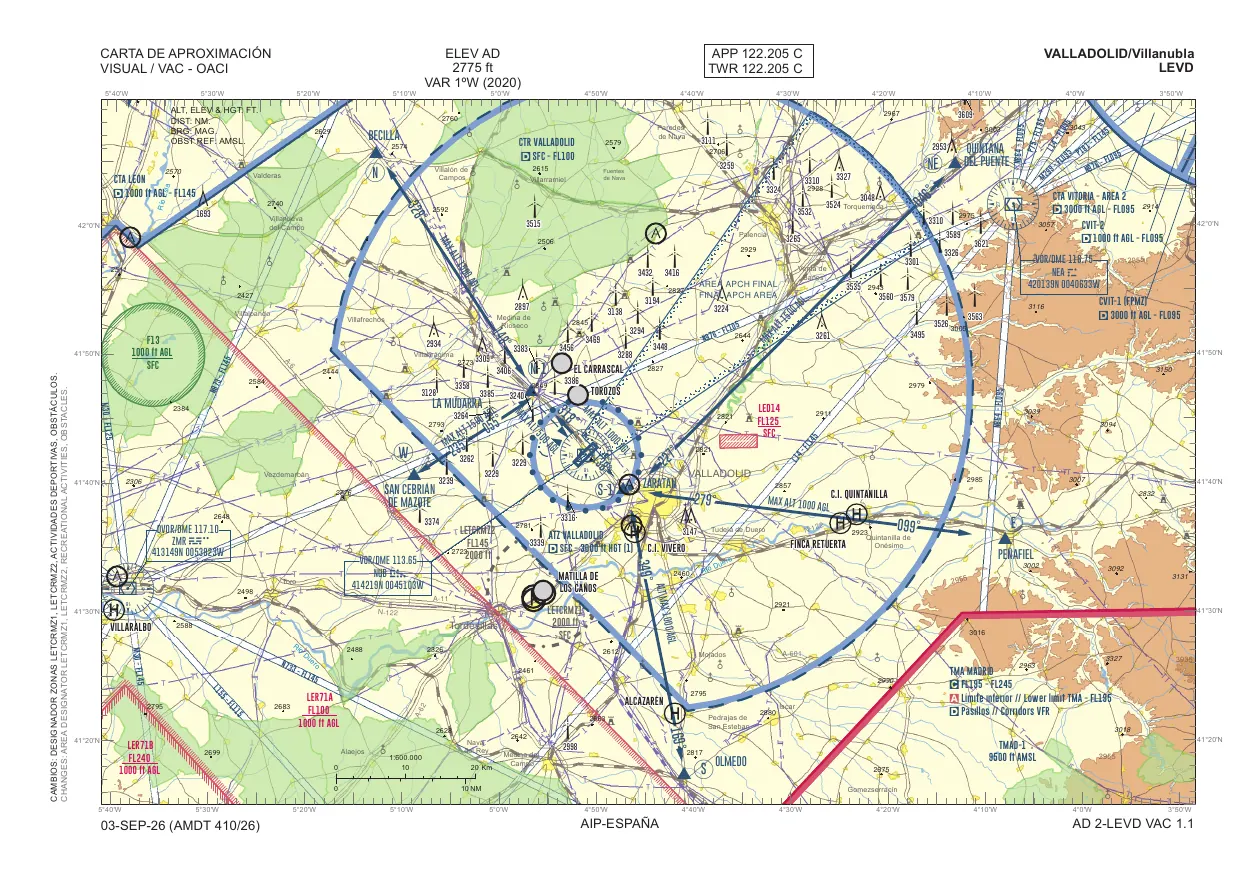
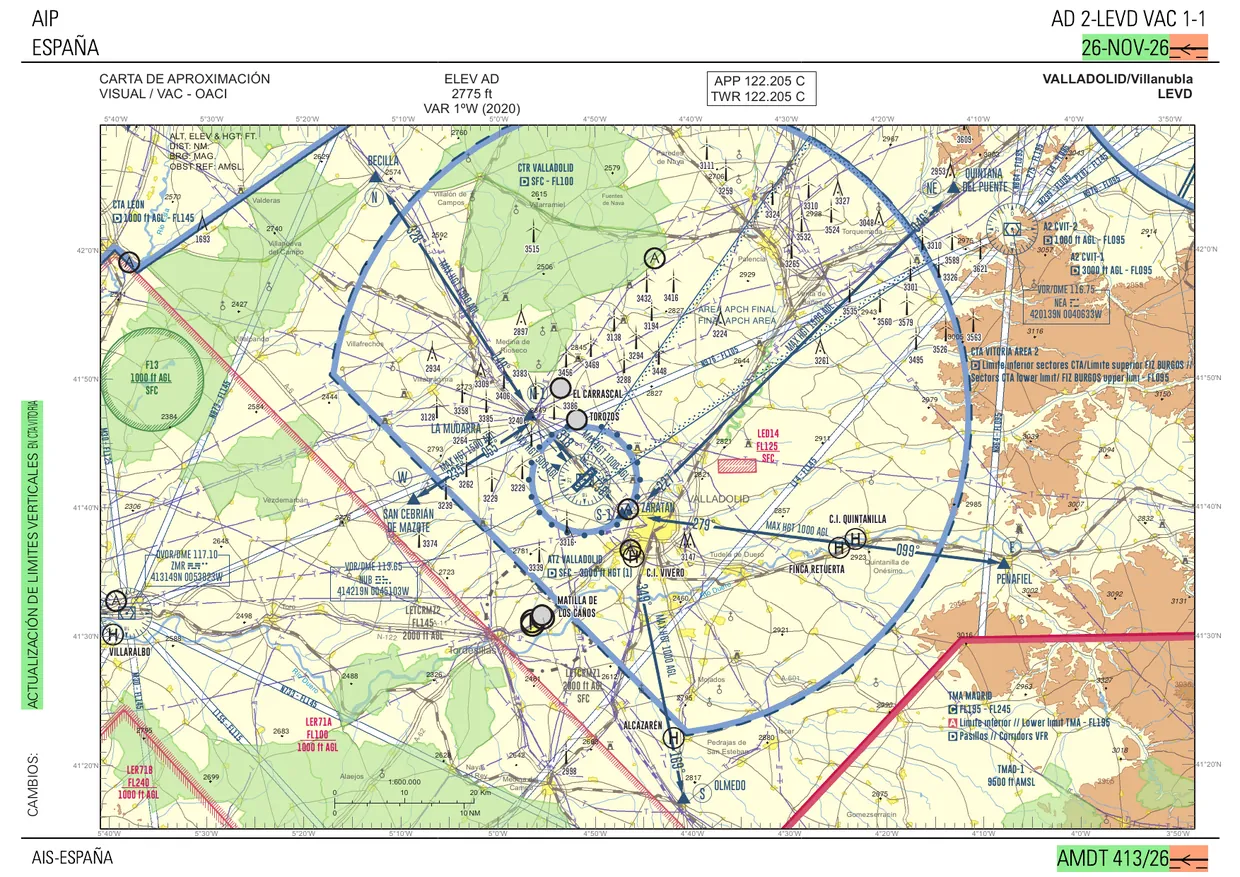
AIRAC 2612: cartas LEAM ADC, LELL PDC y LEVD VAC; AD 2 de LEGR, LELL, LEPP y LEXJ revisados; lista de enmiendas corregida
- Cartas nuevas (WEF 26-NOV-26): LEAM ADC 1 (reimpresión), LELL PDC 1-1/1-2/1-3 (nuevo edificio y paradas de helicópteros), LEVD VAC 1-1/1-2.
- AD 2 (frecuencias, elevación y pistas sin cambios): LEGR, LELL, LEPP y LEXJ marcados como revisados.
- Panel de Stats: instantánea de enmiendas contrastada con la lista oficial (LEBA solo IFR; LEBZ y LESO no cambian; LEGR sin VAC).
- Cartas regeneradas con ?v=2612 para evitar la caché.

Claude-Session: https://claude.ai/code/session_019RNePyopSai5Pfc6wFC9Tn

diff --git a/ops.js b/ops.js
@@ -23,7 +23,7 @@ const ends=()=>AD.rw.reduce((l,r)=>l.concat([Object.assign({len:r.len,surf:r.sur
 /* Otros aeródromos del Reglamento de vuelos (OurAirports, no oficial): coordenadas, elevación (ft), pistas asfaltadas (longitud m, umbrales). Rumbo = número de pista × 10. */
 const AEROS=[{"icao":"LEMT","name":"Casarrubios","ph":1,"tm":"00:15","lat":40.235,"lon":-4.02639,"elev":2050,"rw":[{"len":950,"surf":"ASP","a":{"id":"08","hdg":80,"ll":[40.23426,-4.031893]},"b":{"id":"26","hdg":260,"ll":[40.235742,-4.020887]},"est":1}]},{"icao":"LEOC","name":"Ocaña","ph":1,"tm":"00:30","lat":39.9375,"lon":-3.50333,"elev":2405,"rw":[{"len":1260,"surf":"ASP","a":{"id":"11","hdg":110,"ll":[39.938,-3.50791]},"b":{"id":"29","hdg":290,"ll":[39.934601,-3.49384]},"est":0}]},{"icao":"LEVD","name":"Valladolid","ph":1,"tm":"01:30","lat":41.7061,"lon":-4.85194,"elev":2775,"rw":[{"len":3005,"surf":"ASP","a":{"id":"05","hdg":50,"ll":[41.697029,-4.864785]},"b":{"id":"23","hdg":230,"ll":[41.716019,-4.839038]},"est":0}]},{"icao":"LEBG","name":"Burgos","ph":1,"tm":"01:30","lat":42.3576,"lon":-3.62076,"elev":2962,"rw":[{"len":2099,"surf":"ASP","a":{"id":"04","hdg":40,"ll":[42.350498,-3.62235]},"b":{"id":"22","hdg":220,"ll":[42.364246,-3.60499]},"est":0}]},{"icao":"LESA","name":"Salamanca","ph":1,"tm":"01:30","lat":40.9521,"lon":-5.50199,"elev":2595,"rw":[{"len":2513,"surf":"ASP","a":{"id":"03","hdg":30,"ll":[40.942024,-5.509036]},"b":{"id":"21","hdg":210,"ll":[40.962025,-5.495064]},"est":0}]},{"icao":"LEAB","name":"Albacete","ph":1,"tm":"01:45","lat":38.9485,"lon":-1.86352,"elev":2300,"rw":[{"len":2700,"surf":"ASP","a":{"id":"09","hdg":90,"ll":[38.948002,-1.87906]},"b":{"id":"27","hdg":270,"ll":[38.9491,-1.84794]},"est":0}]},{"icao":"LEBA","name":"Córdoba","ph":1,"tm":"02:00","lat":37.842,"lon":-4.84888,"elev":308,"rw":[{"len":2241,"surf":"ASP","a":{"id":"03","hdg":30,"ll":[37.834435,-4.854156]},"b":{"id":"21","hdg":210,"ll":[37.852104,-4.841833]},"est":0}]},{"icao":"LEBZ","name":"Badajoz","ph":1,"tm":"02:00","lat":38.8913,"lon":-6.82133,"elev":608,"rw":[{"len":2852,"surf":"ASP","a":{"id":"13","hdg":130,"ll":[38.8988,-6.83462]},"b":{"id":"31","hdg":310,"ll":[38.883801,-6.80789]},"est":0}]},{"icao":"LETL","name":"Teruel","ph":2,"tm":"01:45","lat":40.41027,"lon":-1.21737,"elev":3367,"rw":[{"len":2825,"surf":"ASPH","a":{"id":"18","hdg":180,"ll":[40.424732,-1.218303]},"b":{"id":"36","hdg":360,"ll":[40.399319,-1.216897]},"est":0}]},{"icao":"LELN","name":"León","ph":2,"tm":"02:00","lat":42.59071,"lon":-5.65341,"elev":3006,"rw":[{"len":3000,"surf":"ASP","a":{"id":"05","hdg":50,"ll":[42.582001,-5.66528]},"b":{"id":"23","hdg":230,"ll":[42.600911,-5.639317]},"est":0}]},{"icao":"LELO","name":"Logroño (LERJ)","ph":2,"tm":"02:00","lat":42.46095,"lon":-2.32224,"elev":1156,"rw":[{"len":2200,"surf":"CON","a":{"id":"11","hdg":110,"ll":[42.463726,-2.332505]},"b":{"id":"29","hdg":290,"ll":[42.45702,-2.307331]},"est":0}]},{"icao":"LESO","name":"San Sebastián","ph":2,"tm":"02:15","lat":43.3565,"lon":-1.79061,"elev":15,"rw":[{"len":1590,"surf":"ASP","a":{"id":"04","hdg":40,"ll":[43.350399,-1.7974]},"b":{"id":"22","hdg":220,"ll":[43.362701,-1.78382]},"est":0}]},{"icao":"LEGR","name":"Granada","ph":2,"tm":"02:15","lat":37.1887,"lon":-3.77736,"elev":1860,"rw":[{"len":2900,"surf":"ASP","a":{"id":"09","hdg":90,"ll":[37.188599,-3.79369]},"b":{"id":"27","hdg":270,"ll":[37.1889,-3.76103]},"est":0}]},{"icao":"LEZL","name":"Sevilla","ph":2,"tm":"02:30","lat":37.418,"lon":-5.89311,"elev":111,"rw":[{"len":3364,"surf":"ASP","a":{"id":"09","hdg":90,"ll":[37.4179,-5.91208]},"b":{"id":"27","hdg":270,"ll":[37.417999,-5.8741]},"est":0}]},{"icao":"LELC","name":"Murcia-San Javier","ph":2,"tm":"02:45","lat":37.775,"lon":-0.81239,"elev":29,"rw":[{"len":1577,"surf":"ASPH","a":{"id":"04L","hdg":40,"ll":[37.780499,-0.816839]},"b":{"id":"22R","hdg":220,"ll":[37.785999,-0.809692]},"est":0},{"len":2320,"surf":"ASPH","a":{"id":"04R","hdg":40,"ll":[37.7677,-0.821556]},"b":{"id":"22L","hdg":220,"ll":[37.7822,-0.802833]},"est":0}]},{"icao":"LEPP","name":"Pamplona","ph":3,"tm":"02:15","lat":42.77,"lon":-1.64633,"elev":1506,"rw":[{"len":2405,"surf":"ASP","a":{"id":"15","hdg":150,"ll":[42.779499,-1.65325]},"b":{"id":"33","hdg":330,"ll":[42.762001,-1.6405]},"est":0}]},{"icao":"LEXJ","name":"Santander","ph":3,"tm":"02:15","lat":43.4271,"lon":-3.82001,"elev":16,"rw":[{"len":2320,"surf":"ASP","a":{"id":"11","hdg":110,"ll":[43.430801,-3.83392]},"b":{"id":"29","hdg":290,"ll":[43.423599,-3.80702]},"est":0}]},{"icao":"LEAS","name":"Asturias","ph":3,"tm":"02:30","lat":43.5636,"lon":-6.03462,"elev":417,"rw":[{"len":2200,"surf":"ASP","a":{"id":"11","hdg":110,"ll":[43.566601,-6.04759]},"b":{"id":"29","hdg":290,"ll":[43.560501,-6.02165]},"est":0}]},{"icao":"LECH","name":"Castellón","ph":3,"tm":"02:30","lat":40.21389,"lon":0.07333,"elev":1182,"rw":[{"len":2700,"surf":"ASPH","a":{"id":"06","hdg":60,"ll":[40.2075,0.060245]},"b":{"id":"24","hdg":240,"ll":[40.220699,0.086913]},"est":0}]},{"icao":"LEAM","name":"Almería","ph":3,"tm":"02:45","lat":36.8439,"lon":-2.3701,"elev":69,"rw":[{"len":3200,"surf":"ASP","a":{"id":"07","hdg":70,"ll":[36.839699,-2.38726]},"b":{"id":"25","hdg":250,"ll":[36.848099,-2.35294]},"est":0}]},{"icao":"LEJR","name":"Jerez","ph":3,"tm":"02:45","lat":36.7446,"lon":-6.06011,"elev":93,"rw":[{"len":2300,"surf":"ASP","a":{"id":"02","hdg":20,"ll":[36.735001,-6.06481]},"b":{"id":"20","hdg":200,"ll":[36.754299,-6.05541]},"est":0}]},{"icao":"LELL","name":"Sabadell","ph":3,"tm":"03:15","lat":41.5209,"lon":2.10508,"elev":485,"rw":[{"len":1049,"surf":"ASPH","a":{"id":"13","hdg":130,"ll":[41.523346,2.100731]},"b":{"id":"31","hdg":310,"ll":[41.517643,2.110748]},"est":0}]}];
 /* Cartas de aeródromo (AIP ADC 1.1, ENAIRE) colocadas sobre el mapa con los umbrales de la AIP y la escala impresa: url = carta, ovl = capa de rodaje, b = esquinas SO/NE, thr = umbrales, fq = frecuencias, sup = suplementos vigentes. */
-const CHARTS={"LEAB":{"url":"ops-adc-LEAB.webp","ovl":"ops-ovl-LEAB.webp","b":[[38.9308217,-1.8872232],[38.9652102,-1.8394056]],"wef":"27-NOV-25","fq":[["TWR","122.105","Torre"],["GND","121.805","Rodaje"]],"thr":[{"ri":0,"a":["09",38.947967,-1.879119],"b":["27",38.948928,-1.847986]}],"sup":[["SUP 176/25","02/10/25","02/10/26","Riesgo de FOD en la APN E-1 por obras cercanas. Solo se admiten aeronaves remolcadas por la TWY RE-1.","19/11/26"]]},"LEAM":{"url":"ops-adc-LEAM.webp","ovl":"ops-ovl-LEAM.webp","b":[[36.8247991,-2.393994],[36.863068,-2.3439305]],"wef":"03-SEP-26","fq":[["TWR","118.350","Torre"],["GMC","121.705","Rodaje"]],"thr":[{"ri":0,"a":["07",36.840119,-2.385647],"b":["25",36.848147,-2.352936]}]},"LEAS":{"url":"ops-adc-LEAS.webp","ovl":"ops-ovl-LEAS.webp","b":[[43.549046,-6.0562749],[43.5758797,-6.0154594]],"wef":"01-OCT-26","fq":[["TWR","118.150","Torre"],["GMC","121.705","Rodaje"]],"thr":[{"ri":0,"a":["11",43.566639,-6.047592],"b":["29",43.560497,-6.02165]}],"sup":[["SUP 209/26","29/10/26","29/10/27","Luces de obstáculo WDI CAB 11 y WDI INTERMEDIA inutilizables.","19/11/26"]]},"LEBA":{"url":"ops-adc-LEBA.webp","ovl":"ops-ovl-LEBA.webp","b":[[37.8317839,-4.8632642],[37.8547002,-4.8333972]],"wef":"16-APR-26","fq":[["AFIS","118.305","Información"]],"thr":[{"ri":0,"a":["03",37.834436,-4.854156],"b":["21",37.850597,-4.842883]}],"sup":[["SUP 126/26","06/08/26","06/08/27","Luces de identificación de umbral de las RWY 03 y 21 inutilizables.","19/11/26"]]},"LEBG":{"url":"ops-adc-LEBG.webp","ovl":"ops-ovl-LEBG.webp","b":[[42.3483298,-3.6346449],[42.3666972,-3.6020878]],"wef":"27-NOV-25","fq":[["AFIS","125.430","Información"]],"thr":[{"ri":0,"a":["04",42.350486,-3.622344],"b":["22",42.364283,-3.604925]}],"sup":[["SUP 103/26","11/06/26","11/06/27","Señal de barra de parada izquierda TWY B y letrero de pista indicativo de entrada a TWY B inutilizables.","19/11/26"]],"vf":"19/11/26"},"LEBZ":{"url":"ops-adc-LEBZ.webp","ovl":"ops-ovl-LEBZ.webp","b":[[38.8792224,-6.8416114],[38.9032923,-6.8001851]],"wef":"11-JUN-26","fq":[["TWR","122.105","Torre"],["GMC","130.155","Rodaje"],["APP","120.555","Aproximación"]],"thr":[{"ri":0,"a":["13",38.898753,-6.834617],"b":["31",38.883789,-6.807894]}],"ns":"19/11/26"},"LECH":{"url":"ops-adc-LECH.webp","ovl":"ops-ovl-LECH.webp","b":[[40.1988652,0.0524052],[40.2283881,0.0930035]],"wef":"06-AUG-26","fq":[["TWR","120.680","Torre"],["GMC","121.830","Rodaje"],["APP","120.100","Aproximación"]],"thr":[{"ri":0,"a":["06",40.207539,0.060236],"b":["24",40.220697,0.086906]}],"ns":"19/11/26"},"LEGR":{"url":"ops-adc-LEGR.webp","ovl":"ops-ovl-LEGR.webp","b":[[37.168324,-3.8016827],[37.2065881,-3.7531957]],"wef":"01-OCT-26","fq":[["TWR / APP","118.855","Torre y aproximación"],["GMC","121.930","Rodaje"],["ATIS","120.630","Información"]],"thr":[{"ri":0,"a":["09",37.188614,-3.793681],"b":["27",37.188858,-3.761022]}],"ns":"19/11/26"},"LEJR":{"url":"ops-adc-LEJR.webp","ovl":"ops-ovl-LEJR.webp","b":[[36.7308255,-6.0765695],[36.7608551,-6.0397388]],"wef":"19-MAR-26","fq":[["TWR","118.555","Torre"],["GMC","133.280","Rodaje"],["APP","128.500","Aproximación"],["ATIS","125.655","Información"]],"thr":[{"ri":0,"a":["02",36.734975,-6.064814],"b":["20",36.754269,-6.055406]}],"ns":"19/11/26"},"LELC":{"url":"ops-adc-LELC.webp","ovl":"ops-ovl-LELC.webp","b":[[37.7629874,-0.83094],[37.790054,-0.7940294]],"wef":"22-JAN-26","fq":[["TWR","124.425","Torre"],["GMC","121.600","Rodaje"],["APP","130.300","Aproximación"],["ATIS","128.605","Información"]],"thr":[{"ri":1,"a":["04R",37.767603,-0.821653],"b":["22L",37.782183,-0.802786]},{"ri":0,"a":["04L",37.776617,-0.820406],"b":["22R",37.786528,-0.807583]}],"vf":"19/11/26","ns":"19/11/26"},"LELL":{"url":"ops-adc-LELL.webp","ovl":"ops-ovl-LELL.webp","b":[[41.5171955,2.0986373],[41.5251759,2.1120677]],"wef":"22-JAN-26","fq":[["TWR","120.805","Torre"],["GMC","121.605","Rodaje"],["VDF","120.800","Radiogoniómetro"]],"thr":[{"ri":0,"a":["13",41.523344,2.100731],"b":["31",41.518458,2.109328]}],"sup":[["SUP 213/25","25/12/25","25/12/26","Luces de identificación de umbral de las RWY 13 y 31 inutilizables.","19/11/26"]],"vf":"19/11/26"},"LELN":{"url":"ops-adc-LELN.webp","ovl":"ops-ovl-LELN.webp","b":[[42.579322,-5.6708921],[42.6062346,-5.6299509]],"wef":"09-JUL-26","fq":[["TWR","122.105","Torre y rodaje"],["APP","121.280","Aproximación"]],"thr":[{"ri":0,"a":["05",42.58195,-5.665275],"b":["23",42.600931,-5.639281]}],"vf":"19/11/26","ns":"19/11/26"},"LELO":{"url":"ops-adc-LELO.webp","ovl":"ops-ovl-LELO.webp","b":[[42.4467799,-2.3354434],[42.4718524,-2.2965332]],"wef":"11-JUN-26","fq":[["TWR / APP","118.580","Torre y aproximación"],["GMC","121.705","Rodaje"]],"thr":[{"ri":0,"a":["11",42.463731,-2.332497],"b":["29",42.457025,-2.307322]}],"sup":[["SUP 096/26","14/05/26","14/05/27","Precaución al rodar por la TWY A.","19/11/26"],["SUP 27/26","16/04/26","16/04/27","PRKG 1H y 4H cerrados.","19/11/26"]],"vf":"19/11/26"},"LEPP":{"url":"ops-adc-LEPP.webp","ovl":"ops-ovl-LEPP.webp","b":[[42.7564493,-1.6708535],[42.7880711,-1.6216623]],"wef":"22-JAN-26","fq":[["TWR / APP","118.200","Torre y aproximación"],["GMC","121.705","Rodaje"]],"thr":[{"ri":0,"a":["15",42.779544,-1.653253],"b":["33",42.764419,-1.642231]}],"sup":[["SUP 184/26","01/10/26","15/05/27","Obras de ampliación de franja.","19/11/26"]],"vf":"19/11/26"},"LESA":{"url":"ops-adc-LESA.webp","ovl":"ops-ovl-LESA.webp","b":[[40.9372976,-5.5204154],[40.9650699,-5.481748]],"wef":"04-SEP-25","fq":[["TWR","118.105","Torre"],["GMC","121.855","Rodaje"],["APP","124.405","Aproximación"]],"thr":[{"ri":0,"a":["03",40.942025,-5.509036],"b":["21",40.962025,-5.495064]}],"sup":[["SUP 163/25","04/09/25","04/09/26","RWY 07/25 cerrada.","19/11/26","","25/11/26"],["SUP 217/26","26/11/26","20/03/27","Hasta el 20 de marzo de 2027 (estimado), la RWY 07/25 de terreno duro permanece cerrada.","19/11/26","26/11/26",""]],"vf":"19/11/26"},"LESO":{"url":"ops-adc-LESO.webp","ovl":"ops-ovl-LESO.webp","b":[[43.3497862,-1.8007191],[43.3636751,-1.7796799]],"wef":"19-MAR-26","fq":[["TWR","119.855","Torre"],["GMC","121.705","Rodaje"]],"thr":[{"ri":0,"a":["04",43.351503,-1.796136],"b":["22",43.361519,-1.785106]}],"vf":"19/11/26","ns":"19/11/26"},"LETL":{"url":"ops-adc-LETL.webp","ovl":"ops-ovl-LETL.webp","b":[[40.3966402,-1.2384847],[40.4293216,-1.1957957]],"wef":"09-JUL-26","fq":[["A/A","122.680","Sin ATS · autoinformación"]],"thr":[{"ri":0,"a":["18",40.424733,-1.218303],"b":["36",40.401889,-1.217039]}],"sup":[["SUP 54/26","16/04/26","16/04/27","Presencia de grúas en el aeropuerto.","19/11/26"],["SUP 55/26","16/04/26","16/04/27","Puestos de estacionamiento cerrados.","19/11/26"]],"vf":"19/11/26"},"LEVD":{"url":"ops-adc-LEVD.webp","ovl":"ops-ovl-LEVD.webp","b":[[41.6936663,-4.87431],[41.7198056,-4.8296932]],"wef":"02-OCT-25","fq":[["TWR / APP","122.205","Torre y aproximación"]],"thr":[{"ri":0,"a":["05",41.697019,-4.864756],"b":["23",41.715989,-4.839006]}],"vf":"19/11/26","ns":"19/11/26"},"LEXJ":{"url":"ops-adc-LEXJ.webp","ovl":"ops-ovl-LEXJ.webp","b":[[43.4205508,-3.8367876],[43.4326734,-3.8034041]],"wef":"22-JAN-26","fq":[["TWR","118.105","Torre"],["APP","118.375","Aproximación"],["GMC","121.705","Rodaje"],["ATIS","127.530","Información"]],"thr":[{"ri":0,"a":["11",43.430789,-3.833919],"b":["29",43.423597,-3.807014]}],"vf":"19/11/26","ns":"19/11/26"},"LEZL":{"url":"ops-adc-LEZL.webp","ovl":"ops-ovl-LEZL.webp","b":[[37.4085142,-5.923041],[37.4269782,-5.8631846]],"wef":"14-MAY-26","fq":[["TWR","118.105","Torre"],["APP","128.500","Aproximación"],["GMC","121.705","Rodaje"],["ATIS","118.180","Información"]],"thr":[{"ri":0,"a":["09",37.417881,-5.912075],"b":["27",37.418008,-5.8741]}],"vf":"19/11/26","ns":"19/11/26"}};
+const CHARTS={"LEAB":{"url":"ops-adc-LEAB.webp","ovl":"ops-ovl-LEAB.webp","b":[[38.9308217,-1.8872232],[38.9652102,-1.8394056]],"wef":"27-NOV-25","fq":[["TWR","122.105","Torre"],["GND","121.805","Rodaje"]],"thr":[{"ri":0,"a":["09",38.947967,-1.879119],"b":["27",38.948928,-1.847986]}],"sup":[["SUP 176/25","02/10/25","02/10/26","Riesgo de FOD en la APN E-1 por obras cercanas. Solo se admiten aeronaves remolcadas por la TWY RE-1.","19/11/26"]]},"LEAM":{"url":"ops-adc-LEAM.webp","ovl":"ops-ovl-LEAM.webp","b":[[36.8247991,-2.393994],[36.863068,-2.3439305]],"wef":"26-NOV-26","vf":"23/11/26","fq":[["TWR","118.350","Torre"],["GMC","121.705","Rodaje"]],"thr":[{"ri":0,"a":["07",36.840119,-2.385647],"b":["25",36.848147,-2.352936]}]},"LEAS":{"url":"ops-adc-LEAS.webp","ovl":"ops-ovl-LEAS.webp","b":[[43.549046,-6.0562749],[43.5758797,-6.0154594]],"wef":"01-OCT-26","fq":[["TWR","118.150","Torre"],["GMC","121.705","Rodaje"]],"thr":[{"ri":0,"a":["11",43.566639,-6.047592],"b":["29",43.560497,-6.02165]}],"sup":[["SUP 209/26","29/10/26","29/10/27","Luces de obstáculo WDI CAB 11 y WDI INTERMEDIA inutilizables.","19/11/26"]]},"LEBA":{"url":"ops-adc-LEBA.webp","ovl":"ops-ovl-LEBA.webp","b":[[37.8317839,-4.8632642],[37.8547002,-4.8333972]],"wef":"16-APR-26","fq":[["AFIS","118.305","Información"]],"thr":[{"ri":0,"a":["03",37.834436,-4.854156],"b":["21",37.850597,-4.842883]}],"sup":[["SUP 126/26","06/08/26","06/08/27","Luces de identificación de umbral de las RWY 03 y 21 inutilizables.","19/11/26"]]},"LEBG":{"url":"ops-adc-LEBG.webp","ovl":"ops-ovl-LEBG.webp","b":[[42.3483298,-3.6346449],[42.3666972,-3.6020878]],"wef":"27-NOV-25","fq":[["AFIS","125.430","Información"]],"thr":[{"ri":0,"a":["04",42.350486,-3.622344],"b":["22",42.364283,-3.604925]}],"sup":[["SUP 103/26","11/06/26","11/06/27","Señal de barra de parada izquierda TWY B y letrero de pista indicativo de entrada a TWY B inutilizables.","19/11/26"]],"vf":"19/11/26"},"LEBZ":{"url":"ops-adc-LEBZ.webp","ovl":"ops-ovl-LEBZ.webp","b":[[38.8792224,-6.8416114],[38.9032923,-6.8001851]],"wef":"11-JUN-26","fq":[["TWR","122.105","Torre"],["GMC","130.155","Rodaje"],["APP","120.555","Aproximación"]],"thr":[{"ri":0,"a":["13",38.898753,-6.834617],"b":["31",38.883789,-6.807894]}],"ns":"19/11/26"},"LECH":{"url":"ops-adc-LECH.webp","ovl":"ops-ovl-LECH.webp","b":[[40.1988652,0.0524052],[40.2283881,0.0930035]],"wef":"06-AUG-26","fq":[["TWR","120.680","Torre"],["GMC","121.830","Rodaje"],["APP","120.100","Aproximación"]],"thr":[{"ri":0,"a":["06",40.207539,0.060236],"b":["24",40.220697,0.086906]}],"ns":"19/11/26"},"LEGR":{"url":"ops-adc-LEGR.webp","ovl":"ops-ovl-LEGR.webp","b":[[37.168324,-3.8016827],[37.2065881,-3.7531957]],"wef":"01-OCT-26","fq":[["TWR / APP","118.855","Torre y aproximación"],["GMC","121.930","Rodaje"],["ATIS","120.630","Información"]],"thr":[{"ri":0,"a":["09",37.188614,-3.793681],"b":["27",37.188858,-3.761022]}],"ns":"19/11/26","vf":"23/11/26"},"LEJR":{"url":"ops-adc-LEJR.webp","ovl":"ops-ovl-LEJR.webp","b":[[36.7308255,-6.0765695],[36.7608551,-6.0397388]],"wef":"19-MAR-26","fq":[["TWR","118.555","Torre"],["GMC","133.280","Rodaje"],["APP","128.500","Aproximación"],["ATIS","125.655","Información"]],"thr":[{"ri":0,"a":["02",36.734975,-6.064814],"b":["20",36.754269,-6.055406]}],"ns":"19/11/26"},"LELC":{"url":"ops-adc-LELC.webp","ovl":"ops-ovl-LELC.webp","b":[[37.7629874,-0.83094],[37.790054,-0.7940294]],"wef":"22-JAN-26","fq":[["TWR","124.425","Torre"],["GMC","121.600","Rodaje"],["APP","130.300","Aproximación"],["ATIS","128.605","Información"]],"thr":[{"ri":1,"a":["04R",37.767603,-0.821653],"b":["22L",37.782183,-0.802786]},{"ri":0,"a":["04L",37.776617,-0.820406],"b":["22R",37.786528,-0.807583]}],"vf":"19/11/26","ns":"19/11/26"},"LELL":{"url":"ops-adc-LELL.webp","ovl":"ops-ovl-LELL.webp","b":[[41.5171955,2.0986373],[41.5251759,2.1120677]],"wef":"22-JAN-26","fq":[["TWR","120.805","Torre"],["GMC","121.605","Rodaje"],["VDF","120.800","Radiogoniómetro"]],"thr":[{"ri":0,"a":["13",41.523344,2.100731],"b":["31",41.518458,2.109328]}],"sup":[["SUP 213/25","25/12/25","25/12/26","Luces de identificación de umbral de las RWY 13 y 31 inutilizables.","19/11/26"]],"vf":"23/11/26"},"LELN":{"url":"ops-adc-LELN.webp","ovl":"ops-ovl-LELN.webp","b":[[42.579322,-5.6708921],[42.6062346,-5.6299509]],"wef":"09-JUL-26","fq":[["TWR","122.105","Torre y rodaje"],["APP","121.280","Aproximación"]],"thr":[{"ri":0,"a":["05",42.58195,-5.665275],"b":["23",42.600931,-5.639281]}],"vf":"19/11/26","ns":"19/11/26"},"LELO":{"url":"ops-adc-LELO.webp","ovl":"ops-ovl-LELO.webp","b":[[42.4467799,-2.3354434],[42.4718524,-2.2965332]],"wef":"11-JUN-26","fq":[["TWR / APP","118.580","Torre y aproximación"],["GMC","121.705","Rodaje"]],"thr":[{"ri":0,"a":["11",42.463731,-2.332497],"b":["29",42.457025,-2.307322]}],"sup":[["SUP 096/26","14/05/26","14/05/27","Precaución al rodar por la TWY A.","19/11/26"],["SUP 27/26","16/04/26","16/04/27","PRKG 1H y 4H cerrados.","19/11/26"]],"vf":"19/11/26"},"LEPP":{"url":"ops-adc-LEPP.webp","ovl":"ops-ovl-LEPP.webp","b":[[42.7564493,-1.6708535],[42.7880711,-1.6216623]],"wef":"22-JAN-26","fq":[["TWR / APP","118.200","Torre y aproximación"],["GMC","121.705","Rodaje"]],"thr":[{"ri":0,"a":["15",42.779544,-1.653253],"b":["33",42.764419,-1.642231]}],"sup":[["SUP 184/26","01/10/26","15/05/27","Obras de ampliación de franja.","19/11/26"]],"vf":"23/11/26"},"LESA":{"url":"ops-adc-LESA.webp","ovl":"ops-ovl-LESA.webp","b":[[40.9372976,-5.5204154],[40.9650699,-5.481748]],"wef":"04-SEP-25","fq":[["TWR","118.105","Torre"],["GMC","121.855","Rodaje"],["APP","124.405","Aproximación"]],"thr":[{"ri":0,"a":["03",40.942025,-5.509036],"b":["21",40.962025,-5.495064]}],"sup":[["SUP 163/25","04/09/25","04/09/26","RWY 07/25 cerrada.","19/11/26","","25/11/26"],["SUP 217/26","26/11/26","20/03/27","Hasta el 20 de marzo de 2027 (estimado), la RWY 07/25 de terreno duro permanece cerrada.","19/11/26","26/11/26",""]],"vf":"19/11/26"},"LESO":{"url":"ops-adc-LESO.webp","ovl":"ops-ovl-LESO.webp","b":[[43.3497862,-1.8007191],[43.3636751,-1.7796799]],"wef":"19-MAR-26","fq":[["TWR","119.855","Torre"],["GMC","121.705","Rodaje"]],"thr":[{"ri":0,"a":["04",43.351503,-1.796136],"b":["22",43.361519,-1.785106]}],"vf":"19/11/26","ns":"19/11/26"},"LETL":{"url":"ops-adc-LETL.webp","ovl":"ops-ovl-LETL.webp","b":[[40.3966402,-1.2384847],[40.4293216,-1.1957957]],"wef":"09-JUL-26","fq":[["A/A","122.680","Sin ATS · autoinformación"]],"thr":[{"ri":0,"a":["18",40.424733,-1.218303],"b":["36",40.401889,-1.217039]}],"sup":[["SUP 54/26","16/04/26","16/04/27","Presencia de grúas en el aeropuerto.","19/11/26"],["SUP 55/26","16/04/26","16/04/27","Puestos de estacionamiento cerrados.","19/11/26"]],"vf":"19/11/26"},"LEVD":{"url":"ops-adc-LEVD.webp","ovl":"ops-ovl-LEVD.webp","b":[[41.6936663,-4.87431],[41.7198056,-4.8296932]],"wef":"02-OCT-25","fq":[["TWR / APP","122.205","Torre y aproximación"]],"thr":[{"ri":0,"a":["05",41.697019,-4.864756],"b":["23",41.715989,-4.839006]}],"vf":"19/11/26","ns":"19/11/26"},"LEXJ":{"url":"ops-adc-LEXJ.webp","ovl":"ops-ovl-LEXJ.webp","b":[[43.4205508,-3.8367876],[43.4326734,-3.8034041]],"wef":"22-JAN-26","fq":[["TWR","118.105","Torre"],["APP","118.375","Aproximación"],["GMC","121.705","Rodaje"],["ATIS","127.530","Información"]],"thr":[{"ri":0,"a":["11",43.430789,-3.833919],"b":["29",43.423597,-3.807014]}],"vf":"23/11/26","ns":"19/11/26"},"LEZL":{"url":"ops-adc-LEZL.webp","ovl":"ops-ovl-LEZL.webp","b":[[37.4085142,-5.923041],[37.4269782,-5.8631846]],"wef":"14-MAY-26","fq":[["TWR","118.105","Torre"],["APP","128.500","Aproximación"],["GMC","121.705","Rodaje"],["ATIS","118.180","Información"]],"thr":[{"ri":0,"a":["09",37.417881,-5.912075],"b":["27",37.418008,-5.8741]}],"vf":"19/11/26","ns":"19/11/26"}};
 const AC={cz:{n:"PS-28 Cruiser",c:"Cruiser",xf:12,xs:10,t:32,ts:32}, c1:{n:"Cessna 172",c:"C172",xf:15,xs:12,t:35,ts:32}, pi:{n:"Piper PA-28",c:"Piper",xf:15,xs:12,t:35,ts:32}};
 const MIN={visFi:5000,visSolo:8000,cigFi:1500,cigSolo:2500,tailFi:5,tailSolo:0,head:20};
 const $=(s,r)=>(r||document).querySelector(s);
@@ -974,7 +974,7 @@ function radHTML(cls){
 const DOCS={
  LECU:{c1:[["adc1","ADC 1.1","Plano de aeródromo","25-DEC-25"],["pdc1","PDC 1.1","Estacionam. y atraque","06-AUG-26"]],c2:[["adc2","ADC 1.2","Luces de pista","17-JUN-21"],["pdc2","PDC 1.2","Puestos (1/3)","05-SEP-24"],["pdc3","PDC 1.3","Puestos (2/3)","06-AUG-26"],["pdc4","PDC 1.4","Observaciones","06-AUG-26"]],v:[["vac1","VAC 1.1","Aproximación visual","30-NOV-23"],["vac3","VAC 1.3","Notas VAC","24-MAR-22"],["vac4","VAC 1.4","Notas VAC","12-AUG-21"]]},
  LEAB:{c1:[["adc1","ADC 1.1","Plano de aeródromo","27-NOV-25"],["pdc1","PDC 1","Estacionam. y atraque","14-MAY-26"]],c2:[["adc2","ADC 1.2","Luces de pista","28-NOV-24"],["pdc2","PDC 1 · Puestos","Características","14-MAY-26"]],v:[["vac1","VAC 1.1","Aproximación visual","07-AUG-25"],["vac2","VAC 1.2","Notas VAC","07-AUG-25"],["vac3","VAC 1.2 · Puntos","Notificación","07-AUG-25"],["vac4","VAC 2.1","Reactores militares (uso militar)","07-AUG-25"],["vac5","VAC 2.2","Notas VAC 2","07-AUG-25"]]},
- LEAM:{c1:[["adc1","ADC 1.1","Plano de aeródromo","03-SEP-26"],["pdc1","PDC 1.1","Estacionam. y atraque","03-SEP-26"]],c2:[["pdc2","PDC 1.2","Puestos (1/2)","03-SEP-26"],["pdc3","PDC 1.3","Puestos (2/2)","03-SEP-26"]],v:[["vac1","VAC 1.1","Aproximación visual","03-SEP-26"]]},
+ LEAM:{c1:[["adc1","ADC 1.1","Plano de aeródromo","26-NOV-26"],["pdc1","PDC 1.1","Estacionam. y atraque","03-SEP-26"]],c2:[["pdc2","PDC 1.2","Puestos (1/2)","03-SEP-26"],["pdc3","PDC 1.3","Puestos (2/2)","03-SEP-26"]],v:[["vac1","VAC 1.1","Aproximación visual","03-SEP-26"]]},
  LEAS:{c1:[["adc1","ADC 1.1","Plano de aeródromo","01-OCT-26"],["pdc1","PDC 1.1","Estacionam. y atraque","01-OCT-26"]],c2:[["pdc2","PDC 1.2","Puestos","01-OCT-26"]],v:[["vac1","VAC 1.1","Aproximación visual","19-FEB-26"],["vac2","VAC 1.3","Notas VAC","25-DEC-25"]]},
  LEBA:{c1:[["adc1","ADC 1.1","Plano de aeródromo","16-APR-26"],["pdc1","PDC 1.1","Estacionam. y atraque","01-OCT-26"]],c2:[["pdc2","PDC 1.2","Puestos (1/2)","01-OCT-26"],["pdc3","PDC 1.3","Puestos (2/2)","01-OCT-26"]],v:[["vac1","VAC 1.1","Aproximación visual","16-APR-26"],["vac2","VAC 1.2","Notas VAC","16-APR-26"]]},
  LEBG:{c1:[["adc1","ADC 1.1","Plano de aeródromo","27-NOV-25"],["pdc1","PDC 1.1","Estacionam. y atraque","19-FEB-26"]],c2:[["pdc2","PDC 1.2","Puestos","19-FEB-26"]],v:[["vac1","VAC 1.1","Aproximación visual","27-NOV-25"],["vac2","VAC 1.2","Notas y puntos","09-JUL-26"]]},
@@ -982,7 +982,7 @@ const DOCS={
  LECH:{c1:[["adc1","ADC 1.1","Plano de aeródromo","06-AUG-26"],["pdc1","PDC 1.1","Estacionam. y atraque","11-JUN-26"]],c2:[["pdc2","PDC 1.2","Puestos (1/2)","11-JUN-26"],["pdc3","PDC 1.3","Puestos (2/2)","11-JUN-26"]],v:[["vac1","VAC 1.1","Aproximación visual","22-JAN-26"],["vac2","VAC 1.2","Notas VAC","22-JAN-26"]]},
  LEGR:{c1:[["adc1","ADC 1.1","Plano de aeródromo","01-OCT-26"],["pdc1","PDC 1.1","Estacionam. y atraque","01-OCT-26"]],c2:[["pdc2","PDC 1.2","Puestos (1/2)","01-OCT-26"],["pdc3","PDC 1.3","Puestos (2/2)","01-OCT-26"]],v:[["vac1","VAC 1.1","Aproximación visual","29-OCT-26"],["vac2","VAC 1.2","Notas VAC","29-OCT-26"]]},
  LELC:{c1:[["adc1","ADC 1.1","Plano de aeródromo","22-JAN-26"],["pdc1","PDC 1.1","Estacionam. y atraque","22-JAN-26"]],c2:[["pdc2","PDC 1.2","Puestos","22-JAN-26"]],v:[["vac1","VAC 1.1","Aproximación visual","22-JAN-26"],["vac2","VAC 1.2","Notas VAC","22-JAN-26"]]},
- LELL:{c1:[["adc1","ADC 1.1","Plano de aeródromo","22-JAN-26"],["pdc1","PDC 1.1","Estacionam. y atraque","22-JAN-26"]],c2:[["pdc2","PDC 1.2","Puestos (1/2)","11-JUL-24"],["pdc3","PDC 1.3","Puestos (2/2)","11-JUL-24"]],v:[["vac1","VAC 1.1","Aproximación visual","22-JAN-26"],["vac2","VAC 1.2","Notas VAC","31-OCT-24"]]},
+ LELL:{c1:[["adc1","ADC 1.1","Plano de aeródromo","22-JAN-26"],["pdc1","PDC 1.1","Estacionam. y atraque","26-NOV-26"]],c2:[["pdc2","PDC 1.2","Puestos (1/2)","26-NOV-26"],["pdc3","PDC 1.3","Puestos (2/2)","26-NOV-26"]],v:[["vac1","VAC 1.1","Aproximación visual","22-JAN-26"],["vac2","VAC 1.2","Notas VAC","31-OCT-24"]]},
  LELN:{c1:[["adc1","ADC 1.1","Plano de aeródromo","09-JUL-26"],["pdc1","PDC 1.1","Estacionam. y atraque","09-JUL-26"]],c2:[["pdc2","PDC 1.2","Puestos","09-JUL-26"]],v:[["vac1","VAC 1.1","Aproximación visual","17-APR-25"],["vac2","VAC 1.2","Notas VAC","21-APR-22"]]},
  LELO:{c1:[["adc1","ADC 1.1","Plano de aeródromo","11-JUN-26"],["pdc1","PDC 1.1","Estacionam. y atraque","12-JUN-25"]],c2:[["pdc2","PDC 1.2","Puestos","12-JUN-25"]],v:[["vac1","VAC 1.1","Aproximación visual","01-OCT-26"],["vac3","VAC 1.3","Notas VAC","09-JUL-26"],["vac4","VAC 1.4","Puntos de notificación","09-JUL-26"]]},
  LEPP:{c1:[["adc1","ADC 1.1","Plano de aeródromo","22-JAN-26"],["pdc1","PDC 1.1","Estacionam. y atraque","22-JAN-26"]],c2:[["pdc2","PDC 1.2","Puestos","29-OCT-26"]],v:[["vac1","VAC 1.1","Aproximación visual","22-JAN-26"]]},
@@ -990,12 +990,13 @@ const DOCS={
  LEJR:{c1:[["adc1","ADC 1.1","Plano de aeródromo","19-MAR-26"],["pdc1","PDC 1.1","Estacionam. y atraque","19-MAR-26"]],c2:[["pdc2","PDC 1.2","Puestos (1/2)","06-AUG-26"],["pdc3","PDC 1.3","Puestos (2/2)","11-JUN-26"]],v:[["vac1","VAC 1.1","Aproximación visual","18-APR-24"],["vac2","VAC 1.2","Notas VAC","20-FEB-25"]]},
  LESO:{c1:[["adc1","ADC 1.1","Plano de aeródromo","19-MAR-26"],["pdc1","PDC 1.1","Estacionam. y atraque","10-JUL-25"]],c2:[["pdc2","PDC 1.2","Puestos","16-APR-26"]],v:[["vac1","VAC 1.1","Aproximación visual","30-OCT-25"]]},
  LETL:{c1:[["adc1","ADC 1.1","Plano de aeródromo","09-JUL-26"],["pdc1","PDC 1.1","Estacionam. y atraque","09-JUL-26"]],c2:[["pdc2","PDC 1.2","Puestos","30-OCT-25"],["pdc3","PDC 1.3","Observaciones","30-OCT-25"]],v:[["vac1","VAC 1.1","Aproximación visual","09-JUL-26"],["vac2","VAC 1.2","Notas y puntos","15-JUL-21"]]},
- LEVD:{c1:[["adc1","ADC 1.1","Plano de aeródromo","02-OCT-25"],["pdc1","PDC 1.1","Estacionam. y atraque","31-OCT-24"]],c2:[["pdc2","PDC 1.2","Puestos","31-OCT-24"]],v:[["vac1","VAC 1.1","Aproximación visual","03-SEP-26"],["vac2","VAC 1.3","Notas VAC","11-JUL-24"]]},
+ LEVD:{c1:[["adc1","ADC 1.1","Plano de aeródromo","02-OCT-25"],["pdc1","PDC 1.1","Estacionam. y atraque","31-OCT-24"]],c2:[["pdc2","PDC 1.2","Puestos","31-OCT-24"]],v:[["vac1","VAC 1.1","Aproximación visual","26-NOV-26"],["vac2","VAC 1.2","Notas VAC","26-NOV-26"]]},
  LEXJ:{c1:[["adc1","ADC 1.1","Plano de aeródromo","22-JAN-26"],["pdc1","PDC 1.1","Estacionam. y atraque","10-JUL-25"]],c2:[["pdc2","PDC 1.2","Puestos","28-NOV-24"]],v:[["vac1","VAC 1.1","Aproximación visual","14-MAY-26"],["vac2","VAC 1.2","Notas y puntos","06-AUG-26"]]},
  LEZL:{c1:[["adc1","ADC 1.1","Plano de aeródromo","14-MAY-26"],["pdc1","PDC 1.1","Estacionam. y atraque","14-MAY-26"]],c2:[["pdc2","PDC 1.2","Puestos (1/2)","14-MAY-26"],["pdc3","PDC 1.3","Puestos (2/2)","01-OCT-26"],["pdc4","PDC 1.4","Guía de atraque (VDGS)","14-MAY-26"],["pdc5","PDC 1.5","Interfaz pasarela (1/2)","10-JUL-25"],["pdc6","PDC 1.6","Interfaz pasarela (2/2)","10-JUL-25"]],v:[["vac1","VAC 1.1","Aproximación visual","03-SEP-26"],["vac2","VAC 1.2","Notas y puntos","25-JAN-24"]]}
 };
 const cartOld=w=>{ const m=/^(\d\d)-([A-Z]{3})-(\d\d)$/.exec(w), MM={JAN:0,FEB:1,MAR:2,APR:3,MAY:4,JUN:5,JUL:6,AUG:7,SEP:8,OCT:9,NOV:10,DEC:11}; return m&&Date.now()-Date.UTC(2000+ +m[3],MM[m[2]],+m[1])>365*864e5; };
-const cartImg=(ic,id)=>"ops-cart-"+ic+"-"+id+".webp";
+const CARTV={"LEAM-adc1":"2612","LELL-pdc1":"2612","LELL-pdc2":"2612","LELL-pdc3":"2612","LEVD-vac1":"2612","LEVD-vac2":"2612"};   // carta regenerada en el AIRAC indicado: evita la copia en caché
+const cartImg=(ic,id)=>"ops-cart-"+ic+"-"+id+".webp"+(CARTV[ic+"-"+id]?"?v="+CARTV[ic+"-"+id]:"");
 function cartasHTML(mu){
   const d=DOCS[AD.icao]; if(!d) return "";
   const big=d.c1.map(c=>`<button type="button" data-cart="${c[0]}" class="${cartOld(c[3])?"old":""}"><img loading="lazy" alt="${c[1]} ${c[2]}" src="${cartImg(AD.icao,c[0])}"><span><b>${c[1]}</b>${c[2]}<br><small>WEF ${c[3]}</small></span></button>`).join("");
@@ -1094,17 +1095,16 @@ function wkDraw(){ const e=S.root&&$("#opWkS",S.root); if(e) e.innerHTML=wkSeen(
    amdt[ciclo].it[OACI] = [[tipo, qué cambia, fichero de la enmienda en contenido_AMDT o ""]]. Clave interna: LERJ = LELO.
    sup[OACI] = [[número, WEF si aún es futuro, resumen]] tal como figuran en la lista oficial. */
 const AIPU="https://aip.enaire.es/AIP/";
-const AIPCHK={fecha:"23/11/26",
+const AIPCHK={fecha:"23/11/26",   // 2612 contrastado con la lista oficial de enmiendas (AIRAC 11/26 y AIP 413/26); la 412/26 (WEF 29-OCT-26) ya está en vigor
+
  amdt:{"2612":{wef:"26-NOV-26",src:"AIRAC AMDT 11/26 y AIP AMDT 413/26",it:{
-   LEAM:[["ADC","ADC 1: nueva edición","LE_Amdt_A_2026_11_AD_2_LEAM_ADC_1_es.pdf"],["IFR","SID, STAR, IAC y AOC (no afectan al VFR)",""]],
-   LEBA:[["AD2","Datos del aeródromo (AD 2)",""],["IFR","IAC 1 a 3 (no afectan al VFR)","LE_Amdt_2026_413_AD_2_LEBA_IAC_1_es.pdf"]],
-   LEBZ:[["AD2","Datos del aeródromo (AD 2)",""]],
-   LEGR:[["VAC","VAC 1: nueva edición",""],["AD2","Datos del aeródromo (AD 2)","LE_Amdt_A_2026_11_AD_2_LEGR_es.pdf"],["IFR","SID, STAR e IAC (no afectan al VFR)",""]],
-   LELL:[["PDC","PDC 1: nueva edición","LE_Amdt_A_2026_11_AD_2_LELL_PDC_1_es.pdf"],["AD2","Datos del aeródromo (AD 2)","LE_Amdt_A_2026_11_AD_2_LELL_es.pdf"]],
-   LEPP:[["AD2","Datos del aeródromo (AD 2)","LE_Amdt_A_2026_11_AD_2_LEPP_es.pdf"],["IFR","SID, STAR e IAC (no afectan al VFR)",""]],
-   LESO:[["AD2","Datos del aeródromo (AD 2)",""]],
-   LEXJ:[["AD2","Datos del aeródromo (AD 2)","LE_Amdt_A_2026_11_AD_2_LEXJ_es.pdf"]],
-   LEVD:[["VAC","VAC 1: nueva edición","LE_Amdt_2026_413_AD_2_LEVD_VAC_1_es.pdf"]]}},
+   LEAM:[["ADC","ADC 1: reimpresión (mismo contenido)","LE_Amdt_A_2026_11_AD_2_LEAM_ADC_1_es.pdf"],["IFR","SID, STAR, IAC y AOC (no afectan al VFR)","LE_Amdt_2026_413_AD_2_LEAM_AOC_1_es.pdf"]],
+   LEBA:[["IFR","IAC 1 a 3 (no afectan al VFR)","LE_Amdt_2026_413_AD_2_LEBA_IAC_1_es.pdf"]],
+   LEGR:[["AD2","Datos del aeródromo (AD 2): cambios administrativos","LE_Amdt_A_2026_11_AD_2_LEGR_es.pdf","23/11/26"]],
+   LELL:[["PDC","PDC 1: nuevo edificio y zonas de parada de helicópteros","LE_Amdt_A_2026_11_AD_2_LELL_PDC_1_es.pdf"],["AD2","Datos del aeródromo (AD 2): coordenadas DEP RWY 31 y rampas","LE_Amdt_A_2026_11_AD_2_LELL_es.pdf","23/11/26"]],
+   LEPP:[["AD2","Datos del aeródromo (AD 2): reedición sin cambios de contenido","LE_Amdt_A_2026_11_AD_2_LEPP_es.pdf","23/11/26"],["IFR","SID, STAR e IAC (no afectan al VFR)",""]],
+   LEXJ:[["AD2","Datos del aeródromo (AD 2): PPR en SAGA, deshielo y handling","LE_Amdt_A_2026_11_AD_2_LEXJ_es.pdf","23/11/26"]],
+   LEVD:[["VAC","VAC 1: límites verticales de la CTA Vitoria","LE_Amdt_2026_413_AD_2_LEVD_VAC_1_es.pdf"]]}},
   "2613":{wef:"24-DEC-26",src:"AIRAC AMDT 12/26",it:{
    LECU:[["AD2","Datos del aeródromo (AD 2)","LE_Amdt_A_2026_12_AD_2_LECU_LEVS_es.pdf"]],
    LELO:[["AD2","Datos del aeródromo (AD 2)","LE_Amdt_A_2026_12_AD_2_LERJ_es.pdf"]]}}},
@@ -1141,7 +1141,7 @@ function maint(){
     // documentos con su fecha cargada, su PDF oficial y si cambian en el próximo ciclo
     const ch=(NX&&NX.it[ic])||[], ch2=(NX2&&NX2.it[ic])||[], nw=NX?dW(NX.wef):null;
     const docs=[["ADC",c.wef||""],["PDC",dc&&dc.np?"np":dpw],["VAC",dvw]].map(d=>{ const k=d[0], cx=ch.find(x=>x[0]===k), lw=dW(d[1]); return {k,d:d[1],u:d[1]==="np"?"":aipDoc(ic,k),chg:!!cx,txt:cx?cx[1]:"",f:cx&&cx[2]?AIPU+"contenido_AMDT/"+cx[2]:"",done:!!(cx&&lw!=null&&nw!=null&&lw>=nw)}; });
-    const oth=ch.filter(x=>x[0]!=="ADC"&&x[0]!=="PDC"&&x[0]!=="VAC").map(x=>({k:x[0],txt:x[1],f:x[2]?AIPU+"contenido_AMDT/"+x[2]:""}));
+    const oth=ch.filter(x=>x[0]!=="ADC"&&x[0]!=="PDC"&&x[0]!=="VAC").map(x=>({k:x[0],txt:x[1],f:x[2]?AIPU+"contenido_AMDT/"+x[2]:"",ok:x[3]||""}));
     // suplementos: lista oficial frente a los cargados
     const off=AIPCHK.sup[ic]||[], ld=(c.sup||[]).map(x=>supKey(x[0])), miss=off.filter(x=>!ld.includes(supKey(x[0]))), xtra=(c.sup||[]).filter(x=>!off.some(y=>supKey(y[0])===supKey(x[0]))).map(x=>x[0]);
     rows.push({icao:ic,name:o.name,wef:c.wef||"—",old:w!=null&&now-w>365*D1,sup,ns:c.ns||"",nd:"",ex:dx.t,exOld:dx.o,aip:aipU(ic),docs,oth,ch2:ch2.map(x=>x[1]),off,miss:miss.filter(x=>!x[3]),missI:miss.filter(x=>x[3]),xtra});

diff --git a/index.html b/index.html
@@ -2156,7 +2156,7 @@ function airacBox(){
   if(!M) return "";
   const E=x=>String(x).replace(/[&<>"]/g,c=>({"&":"&amp;","<":"&lt;",">":"&gt;",'"':"&quot;"}[c])), A=(u,t,c)=>`<a class="${c||"lk"}" target="_blank" rel="noopener" href="${E(u)}">${t}</a>`;
   const AIP=M.rows.filter(r=>!r.vfr), VFR=M.rows.filter(r=>r.vfr), nx=M.chk&&M.chk.nx, nx2=M.chk&&M.chk.nx2;
-  const need=r=>r.docs.some(d=>d.chg&&!d.done)||r.oth.some(x=>x.k==="AD2")||r.miss.length>0||r.xtra.length>0||r.sup.some(x=>x.st==="late");
+  const need=r=>r.docs.some(d=>d.chg&&!d.done)||r.oth.some(x=>x.k==="AD2"&&!x.ok)||r.miss.length>0||r.xtra.length>0||r.sup.some(x=>x.st==="late");
   const chg=AIP.filter(r=>r.docs.some(d=>d.chg)||r.oth.length), nMiss=AIP.reduce((n,r)=>n+r.miss.length,0), nI=AIP.reduce((n,r)=>n+(r.missI||[]).length,0), nX=AIP.reduce((n,r)=>n+r.xtra.length,0), todo=AIP.filter(need), act=M.act||todo.length>0;
   const when=M.a.dN<=0?"ya está en vigor":`entra en vigor el ${M.a.nxt}, en ${M.a.dN} día${M.a.dN===1?"":"s"}`;
   const head=`<p class="ac">AIRAC ${M.a.idN} ${when}. Vigente: ${M.a.idC}.${todo.length?` <b>${todo.length} aeródromo${todo.length===1?"":"s"}</b> con algo que revisar.`:" Todo al día."}</p>`;
@@ -2167,7 +2167,7 @@ function airacBox(){
   const chip=(r,d)=>{ if(d.d==="np") return `<span class="dc na">PDC · no publicada</span>`; if(!d.d) return `<span class="dc na">${d.k} · sin cargar</span>`;
     const cls=d.chg?(d.done?"done":"chg"):"ok"; return `<span class="dcw">${A(d.u,`${d.k} · ${E(d.d)}`,"dc "+cls)}${d.chg?(d.done?` <small class="ok">✓ ya cargada</small>`:` <small class="late">→ nueva ${E(nx.wef)}</small>${d.f?" "+A(d.f,"enmienda ↗","lk"):""}`):""}</span>`; };
   const rowH=r=>{ if(r.vfr) return `<tr class="vfr"><th>${r.icao}</th><td>${E(r.name)}</td><td colspan="2"><span class="pill">Guía VFR / No AIP</span> Aeródromo privado: no se publica en la AIP de ENAIRE, solo en la ${A(M.links.vfr,"Guía VFR ↗")}. Sin alertas.</td></tr>`;
-    const docs=r.docs.map(d=>chip(r,d)).join("")+(r.oth.length?`<div class="oth">${r.oth.map(x=>`<span class="${x.k==="IFR"?"muted":"soon"}">${E(x.txt)}</span>${x.k==="IFR"?(x.f?" "+A(x.f,"enmienda ↗"):""):" "+A(x.f||M.links.amdt,"enmienda ↗")}`).join("<br>")}</div>`:"")+(r.ch2&&r.ch2.length&&nx2?`<div class="oth muted">En AIRAC ${E(nx2.id)} (${E(nx2.wef)}): ${E(r.ch2.join(", "))}</div>`:"");
+    const docs=r.docs.map(d=>chip(r,d)).join("")+(r.oth.length?`<div class="oth">${r.oth.map(x=>`<span class="${x.k==="IFR"?"muted":x.ok?"okv":"soon"}">${E(x.txt)}</span>${x.ok?` <small class="ok">✓ revisado ${E(x.ok)}</small> `:""}${x.k==="IFR"?(x.f?" "+A(x.f,"enmienda ↗"):""):" "+A(x.f||M.links.amdt,"enmienda ↗")}`).join("<br>")}</div>`:"")+(r.ch2&&r.ch2.length&&nx2?`<div class="oth muted">En AIRAC ${E(nx2.id)} (${E(nx2.wef)}): ${E(r.ch2.join(", "))}</div>`:"");
     const ld=r.sup.length?r.sup.map(x=>`<span class="${x.st}">${E(x.id)} → ${E(x.end)}${x.st==="late"?" (superado)":x.st==="soon"?" (≤30 d)":x.st==="ver"?" (verificado en vigor "+E(x.ver)+")":x.st==="okv"?" (EST · verificado "+E(x.ver)+")":x.st==="pend"?" (vigente desde "+E(x.from)+")":x.to?" (hasta "+E(x.to)+")":""}</span>`).join("<br>"):(r.off.length?"":r.ns?`<span class="okv">Sin SUP (verificado ${E(r.ns)})</span>`:"—");
     const ms=r.miss.length?`<div class="miss"><b>Sin cargar (lista oficial):</b> ${r.miss.map(x=>`SUP ${E(x[0])}${x[1]?" (desde "+E(x[1])+")":""} · ${E(x[2])}`).join("; ")}</div>`:"", mi=r.missI&&r.missI.length?`<div class="oth muted">Solo IFR, sin cargar: ${r.missI.map(x=>`SUP ${E(x[0])}${x[1]?" (desde "+E(x[1])+")":""} · ${E(x[2])}`).join("; ")}</div>`:"", xs=r.xtra.length?`<div class="xtra"><b>Cargado pero no figura en la lista oficial:</b> ${E(r.xtra.join(", "))}. Revisa si ya terminó o si es de otro aeródromo.</div>`:"";
     return `<tr class="${need(r)?"need":"nochg"}"><th>${r.icao==="LELO"?"LERJ":r.icao}</th><td>${E(r.name)}<br>${A(r.aip,"AD 2 ↗")}</td><td>${docs}</td><td>${ld}${ms}${xs}${mi}</td></tr>`; };
